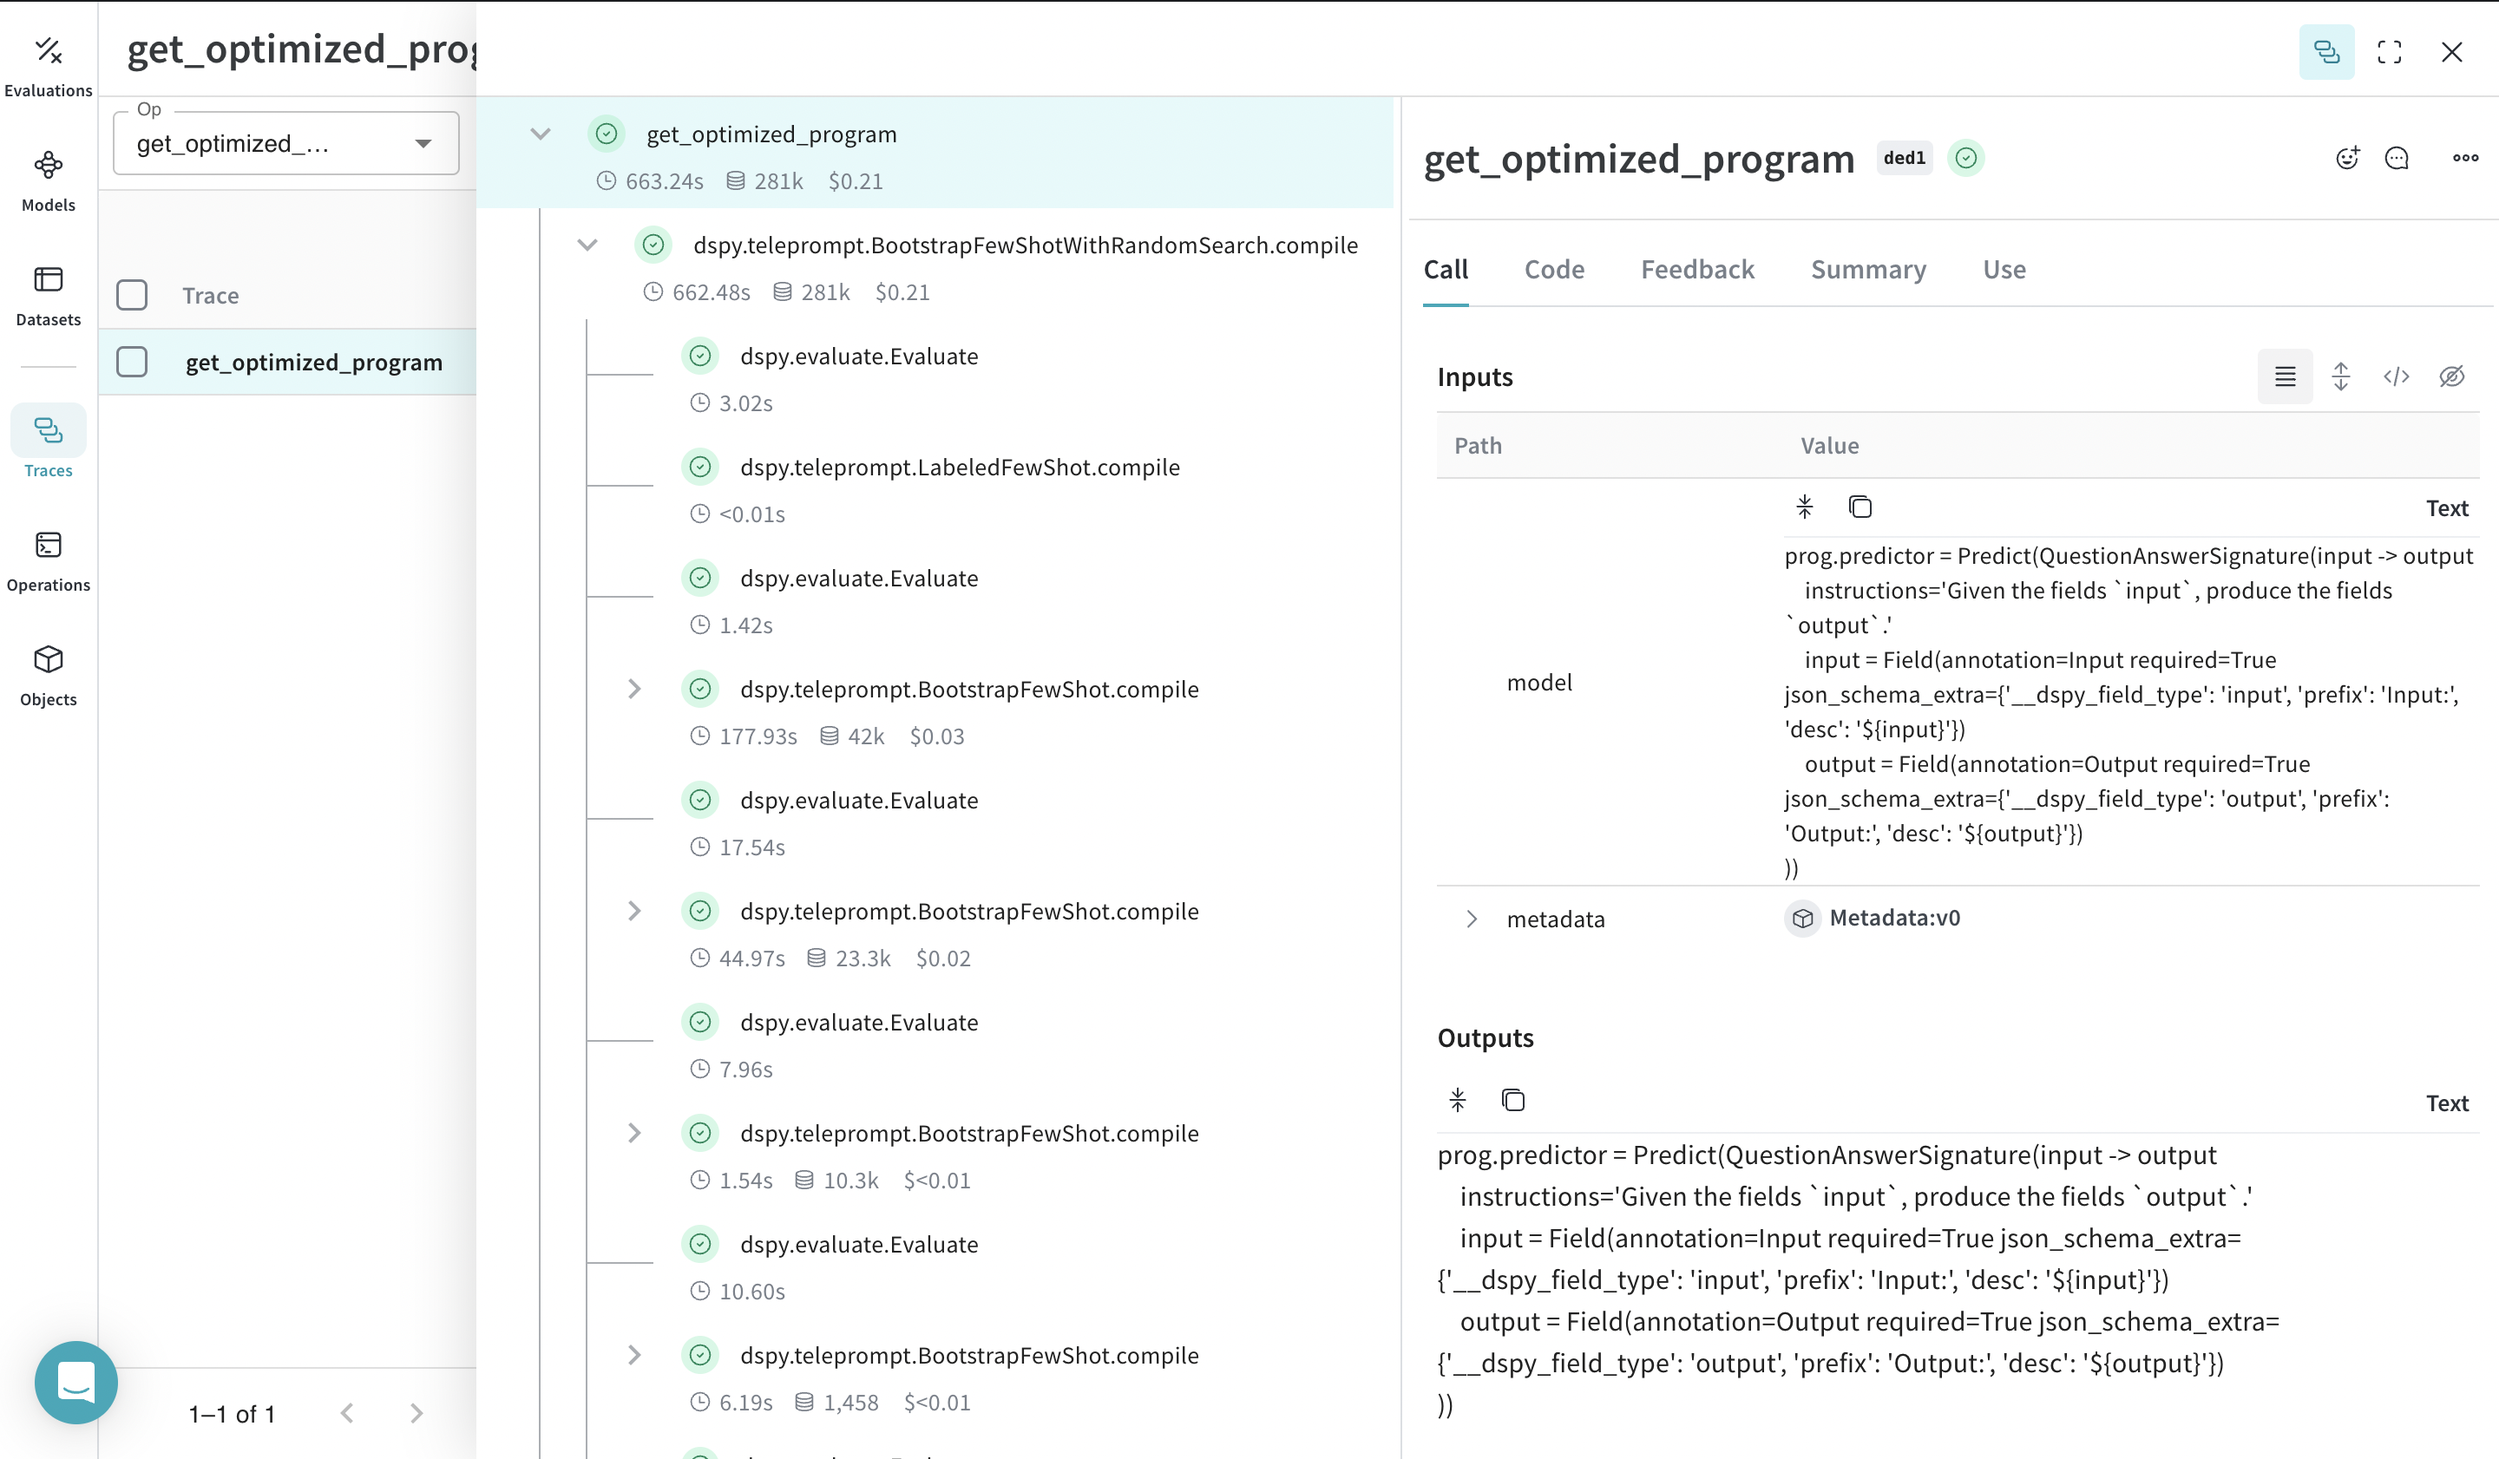
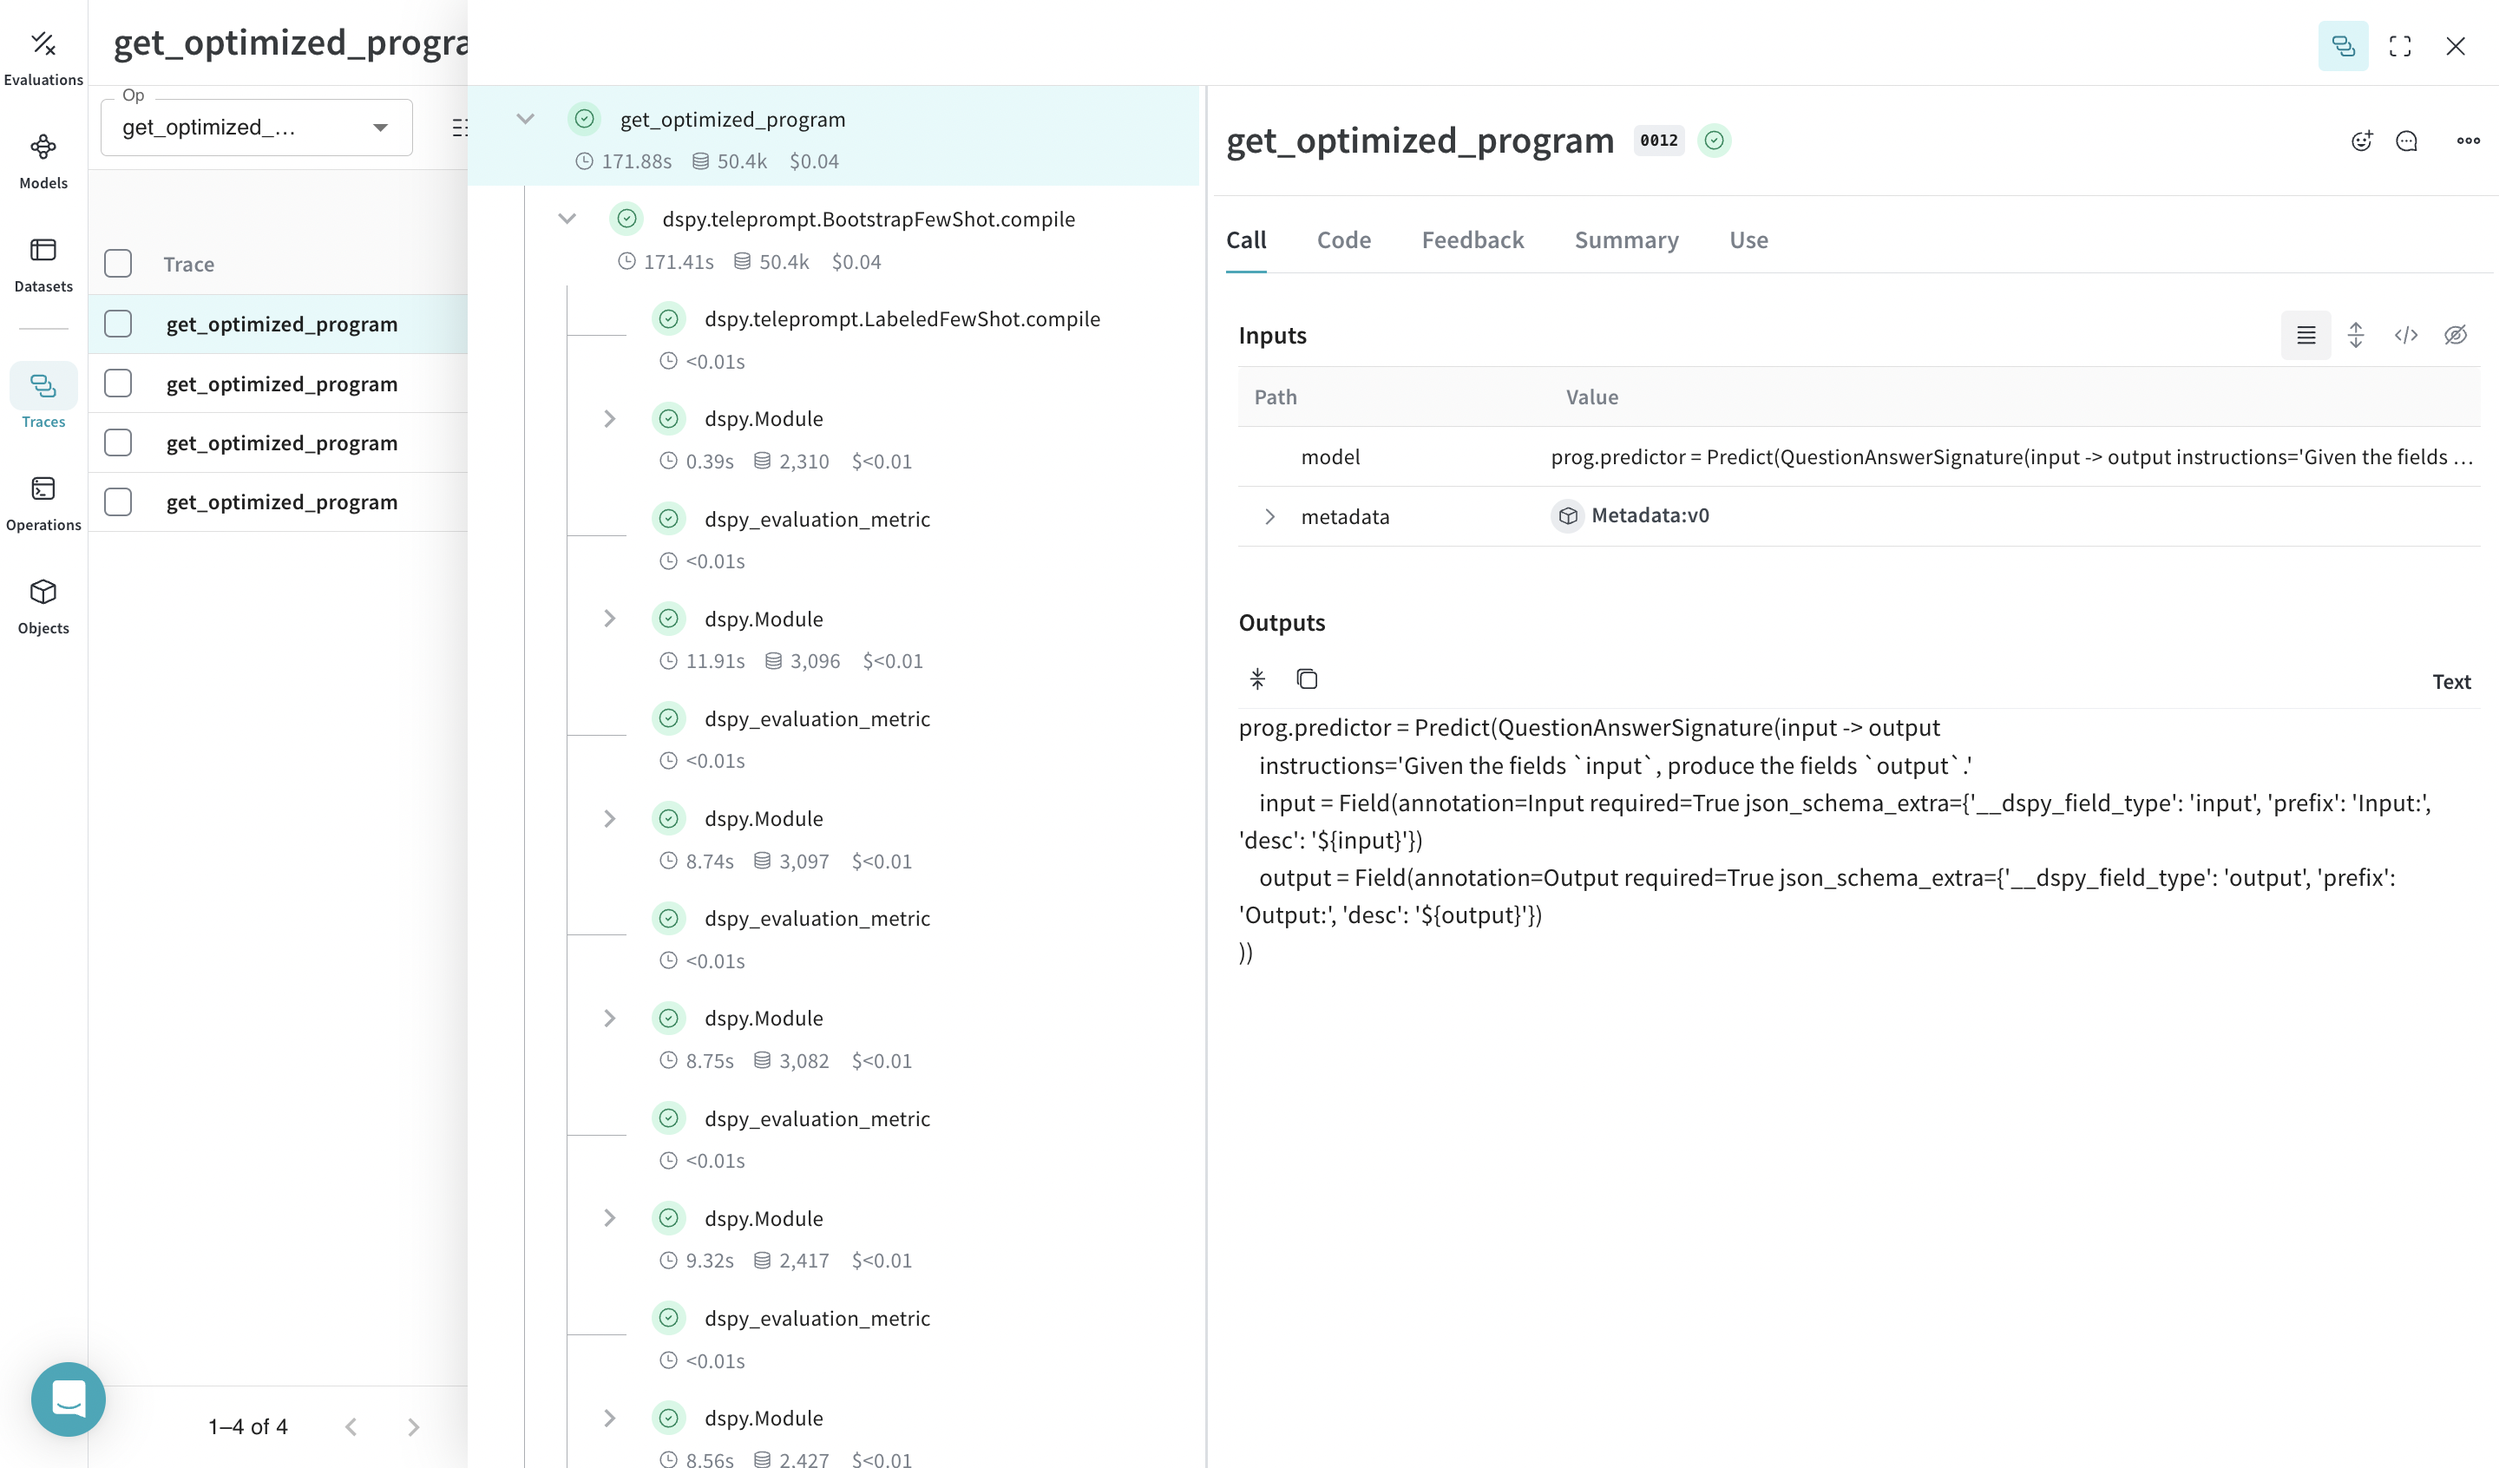
update: cookbook

diff --git a/docs/docs/cookbooks/dspy_prompt_optimization.md b/docs/docs/cookbooks/dspy_prompt_optimization.md
@@ -51,7 +51,6 @@ class Metadata(weave.Model):
     openai_max_tokens: int = 2048
     max_bootstrapped_demos: int = 8
     max_labeled_demos: int = 8
-    validation_size_for_optimization: int = 10
 
 
 metadata = Metadata()
@@ -180,11 +179,11 @@ rich.print(prediction)
 
 Now that we have a baseline prompting strategy, let's evaluate it on our validation set using [`weave.Evaluation`](./../guides/core-types/evaluations.md) on a simple metric that matches the predicted answer with the ground truth. Weave will take each example, pass it through your application and score the output on multiple custom scoring functions. By doing this, you'll have a view of the performance of your application, and a rich UI to drill into individual outputs and scores.
 
-First, we need to create a simple evalaution metric function that tells whether the answer from the baseline module's output is the same as the ground truth answer or not.
+First, we need to create a simple weave evaluation scoring function that tells whether the answer from the baseline module's output is the same as the ground truth answer or not. Scoring functions need to have a `model_output` keyword argument, but the other arguments are user defined and are taken from the dataset examples. It will only take the necessary keys by using a dictionary key based on the argument name.
 
 ```python
 @weave.op()
-def weave_evaluation_metric(answer: str, model_output: Output) -> dict:
+def weave_evaluation_scorer(answer: str, model_output: Output) -> dict:
     return {
         "match": int(answer.lower() == model_output["answer"].lower())
     }
@@ -200,7 +199,7 @@ validation_dataset = weave.ref(
 evaluation = weave.Evaluation(
     name="baseline_causal_reasoning_module",
     dataset=validation_dataset,
-    scorers=[weave_evaluation_metric]
+    scorers=[weave_evaluation_scorer]
 )
 
 await evaluation.evaluate(baseline_module.forward)
@@ -218,24 +217,23 @@ asyncio.run(evaluation.evaluate(baseline_module.forward))
 Now, that we have a baseline DSPy program, let us try to improve its performance for causal reasoning. We would do this using a [DSPy teleprompter](https://dspy-docs.vercel.app/docs/building-blocks/optimizers) is an algorithm that can tune the parameters of a DSPy program (i.e., the prompts and/or the LM weights) to maximize the metrics you specify, like accuracy. When compiling a DSPy program, we generally invoke a teleprompter, which is an optimizer that takes the program, a training set, and a metric—and returns a new optimized program. In this tutorial, we use the [BootstrapFewShot](https://dspy-docs.vercel.app/api/category/optimizers) teleprompter.
 
 ```python
-from dspy.teleprompt import BootstrapFewShotWithRandomSearch
+from dspy.teleprompt import BootstrapFewShot
 
 
 @weave.op()
 def get_optimized_program(model: dspy.Module, metadata: Metadata) -> dspy.Module:
-    
+
     @weave.op()
     def dspy_evaluation_metric(true, prediction, trace=None):
         return prediction["answer"].lower() == true.answer.lower()
 
 
-    teleprompter = BootstrapFewShotWithRandomSearch(
-        metric=dspy_evaluation_metric, 
+    teleprompter = BootstrapFewShot(
+        metric=dspy_evaluation_metric,
         max_bootstrapped_demos=metadata.max_bootstrapped_demos,
         max_labeled_demos=metadata.max_labeled_demos,
     )
-    valset = dspy_val_examples[:metadata.validation_size_for_optimization]
-    return teleprompter.compile(model, trainset=dspy_train_examples, valset=valset)
+    return teleprompter.compile(model, trainset=dspy_train_examples)
 
 
 optimized_module = get_optimized_program(baseline_module, metadata)
@@ -251,7 +249,7 @@ Now that we have our optimized program (the optimized prompting strategy), let's
 evaluation = weave.Evaluation(
     name="optimized_causal_reasoning_module",
     dataset=validation_dataset,
-    scorers=[weave_evaluation_metric]
+    scorers=[weave_evaluation_scorer]
 )
 
 await evaluation.evaluate(optimized_module.forward)
